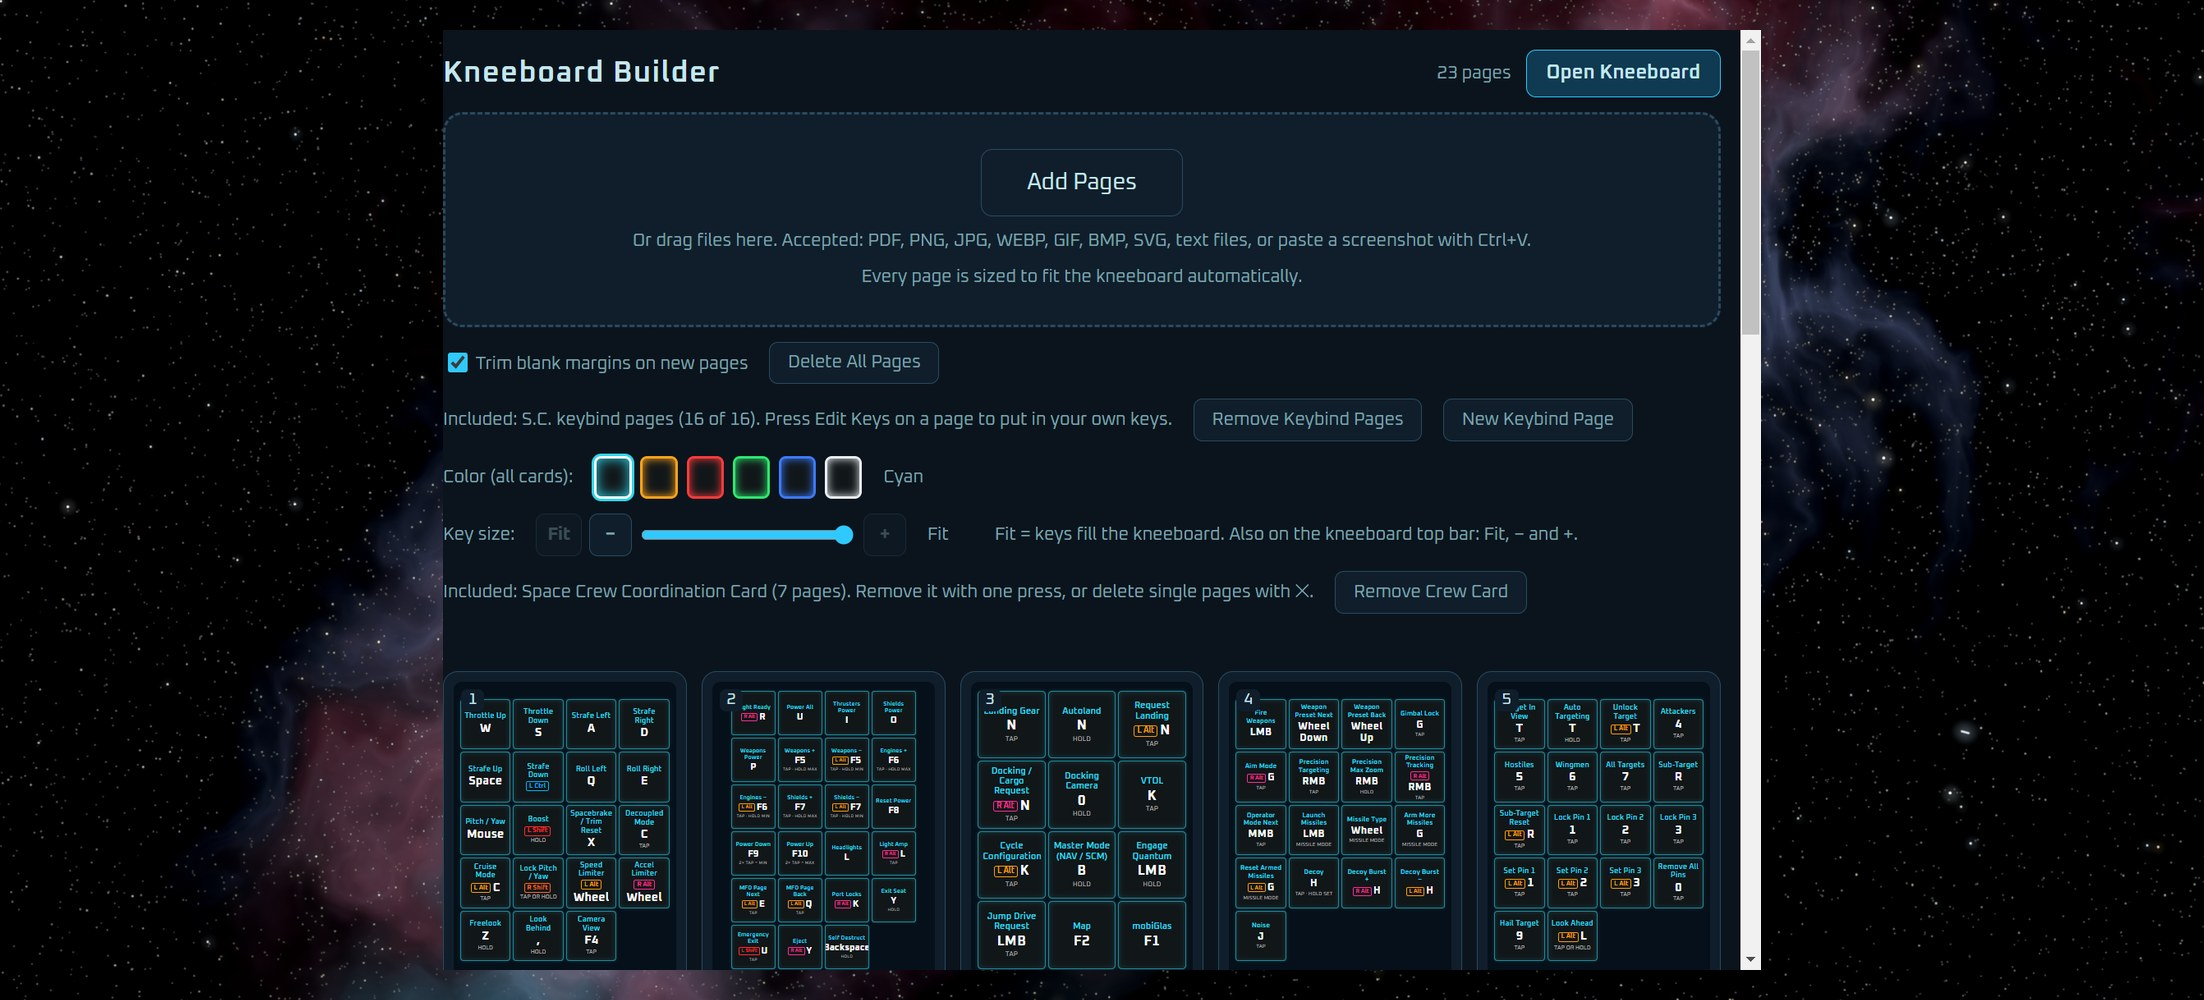
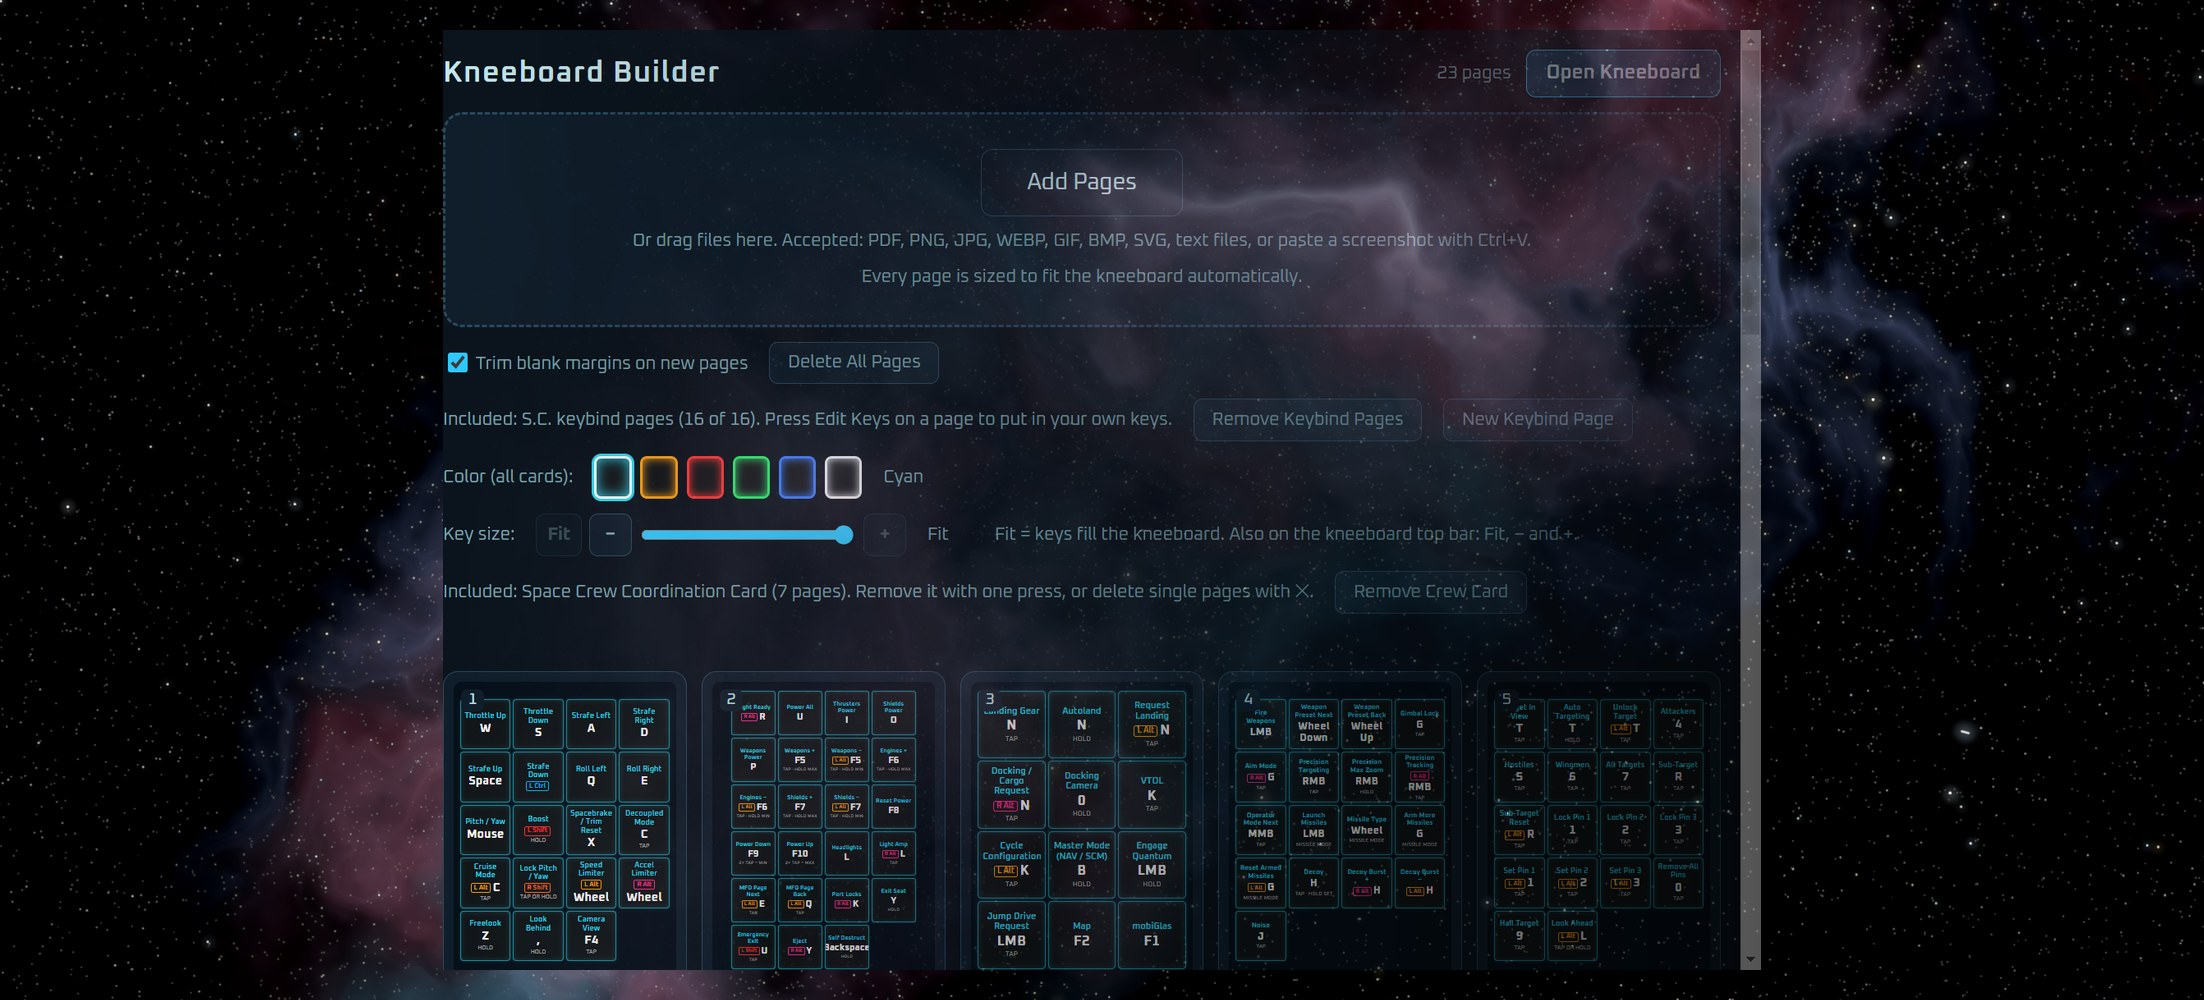
Shop: Kneeboard pictures show opacity from full to 35% across each picture (Fit page solid), labelled Opacity

diff --git a/shop/index.html b/shop/index.html
@@ -112,13 +112,13 @@
   <article class="product" id="kneeboard">
     <section class="roll kb-roll" aria-roledescription="carousel" aria-label="Kneeboard pictures">
       <div class="roll-track" tabindex="0" aria-label="Kneeboard pictures; use the arrow keys or swipe">
-        <figure class="roll-slide"><img src="img/kneeboard-roll-v2/colors-1-1102w.jpg" srcset="img/kneeboard-roll-v2/colors-1-1102w.jpg 1102w, img/kneeboard-roll-v2/colors-1-1653w.jpg 1653w, img/kneeboard-roll-v2/colors-1-2204w.jpg 2204w" sizes="(min-width: 1200px) 1102px, (min-width: 601px) calc(100vw - 98px), calc(100vw - 66px)" width="1102" height="500" alt="The Flight keybind page in Cyan, Amber and Red."><figcaption>Six colors (1 of 2)</figcaption></figure>
-        <figure class="roll-slide"><img src="img/kneeboard-roll-v2/colors-2-1102w.jpg" srcset="img/kneeboard-roll-v2/colors-2-1102w.jpg 1102w, img/kneeboard-roll-v2/colors-2-1653w.jpg 1653w, img/kneeboard-roll-v2/colors-2-2204w.jpg 2204w" sizes="(min-width: 1200px) 1102px, (min-width: 601px) calc(100vw - 98px), calc(100vw - 66px)" width="1102" height="500" loading="lazy" alt="The Flight keybind page in Green, Blue and White."><figcaption>Six colors (2 of 2)</figcaption></figure>
-        <figure class="roll-slide"><img src="img/kneeboard-roll-v2/pages-1102w.jpg" srcset="img/kneeboard-roll-v2/pages-1102w.jpg 1102w, img/kneeboard-roll-v2/pages-1653w.jpg 1653w, img/kneeboard-roll-v2/pages-2204w.jpg 2204w" sizes="(min-width: 1200px) 1102px, (min-width: 601px) calc(100vw - 98px), calc(100vw - 66px)" width="1102" height="500" loading="lazy" alt="Included keybind pages Flight, Ship Systems and Mining in Cyan."><figcaption>Included keybind pages</figcaption></figure>
-        <figure class="roll-slide"><img src="img/kneeboard-roll-v2/see-through-1102w.jpg" srcset="img/kneeboard-roll-v2/see-through-1102w.jpg 1102w, img/kneeboard-roll-v2/see-through-1653w.jpg 1653w, img/kneeboard-roll-v2/see-through-2204w.jpg 2204w" sizes="(min-width: 1200px) 1102px, (min-width: 601px) calc(100vw - 98px), calc(100vw - 66px)" width="1102" height="500" loading="lazy" alt="The same page at see-through 100, 75, 50 and 30 percent over a space picture."><figcaption>See-through levels</figcaption></figure>
-        <figure class="roll-slide"><img src="img/kneeboard-roll-v2/key-size-1102w.jpg" srcset="img/kneeboard-roll-v2/key-size-1102w.jpg 1102w, img/kneeboard-roll-v2/key-size-1653w.jpg 1653w, img/kneeboard-roll-v2/key-size-2204w.jpg 2204w" sizes="(min-width: 1200px) 1102px, (min-width: 601px) calc(100vw - 98px), calc(100vw - 66px)" width="1102" height="500" loading="lazy" alt="Keys filling the kneeboard (Fit) and the same page at 50 percent."><figcaption>Key size: Fit or smaller</figcaption></figure>
-        <figure class="roll-slide"><img src="img/kneeboard-roll-v2/builder-1102w.jpg" srcset="img/kneeboard-roll-v2/builder-1102w.jpg 1102w, img/kneeboard-roll-v2/builder-1653w.jpg 1653w, img/kneeboard-roll-v2/builder-2204w.jpg 2204w" sizes="(min-width: 1200px) 1102px, (min-width: 601px) calc(100vw - 98px), calc(100vw - 66px)" width="1102" height="500" loading="lazy" alt="The Kneeboard Builder: Add Pages, one color for all cards, key size, New Keybind Page and the included pages."><figcaption>Kneeboard Builder</figcaption></figure>
-        <figure class="roll-slide"><img src="img/kneeboard-roll-v2/crew-card-1102w.jpg" srcset="img/kneeboard-roll-v2/crew-card-1102w.jpg 1102w, img/kneeboard-roll-v2/crew-card-1653w.jpg 1653w, img/kneeboard-roll-v2/crew-card-2204w.jpg 2204w" sizes="(min-width: 1200px) 1102px, (min-width: 601px) calc(100vw - 98px), calc(100vw - 66px)" width="1102" height="500" loading="lazy" alt="Page 2 of the included Space Crew Coordination Card: calling contacts. The crew card follows the color you pick."><figcaption>Included crew card</figcaption></figure>
+        <figure class="roll-slide"><img src="img/kneeboard-roll-v2/colors-1-1102w.jpg?v=op5" srcset="img/kneeboard-roll-v2/colors-1-1102w.jpg?v=op5 1102w, img/kneeboard-roll-v2/colors-1-1653w.jpg?v=op5 1653w, img/kneeboard-roll-v2/colors-1-2204w.jpg?v=op5 2204w" sizes="(min-width: 1200px) 1102px, (min-width: 601px) calc(100vw - 98px), calc(100vw - 66px)" width="1102" height="500" alt="The Flight keybind page in Cyan, Amber and Red."><figcaption>Six colors (1 of 2)</figcaption></figure>
+        <figure class="roll-slide"><img src="img/kneeboard-roll-v2/colors-2-1102w.jpg?v=op5" srcset="img/kneeboard-roll-v2/colors-2-1102w.jpg?v=op5 1102w, img/kneeboard-roll-v2/colors-2-1653w.jpg?v=op5 1653w, img/kneeboard-roll-v2/colors-2-2204w.jpg?v=op5 2204w" sizes="(min-width: 1200px) 1102px, (min-width: 601px) calc(100vw - 98px), calc(100vw - 66px)" width="1102" height="500" loading="lazy" alt="The Flight keybind page in Green, Blue and White."><figcaption>Six colors (2 of 2)</figcaption></figure>
+        <figure class="roll-slide"><img src="img/kneeboard-roll-v2/pages-1102w.jpg?v=op5" srcset="img/kneeboard-roll-v2/pages-1102w.jpg?v=op5 1102w, img/kneeboard-roll-v2/pages-1653w.jpg?v=op5 1653w, img/kneeboard-roll-v2/pages-2204w.jpg?v=op5 2204w" sizes="(min-width: 1200px) 1102px, (min-width: 601px) calc(100vw - 98px), calc(100vw - 66px)" width="1102" height="500" loading="lazy" alt="Included keybind pages Flight, Ship Systems and Mining in Cyan."><figcaption>Included keybind pages</figcaption></figure>
+        <figure class="roll-slide"><img src="img/kneeboard-roll-v2/see-through-1102w.jpg?v=op5" srcset="img/kneeboard-roll-v2/see-through-1102w.jpg?v=op5 1102w, img/kneeboard-roll-v2/see-through-1653w.jpg?v=op5 1653w, img/kneeboard-roll-v2/see-through-2204w.jpg?v=op5 2204w" sizes="(min-width: 1200px) 1102px, (min-width: 601px) calc(100vw - 98px), calc(100vw - 66px)" width="1102" height="500" loading="lazy" alt="The same page at see-through 100, 75, 50 and 30 percent over a space picture."><figcaption>Opacity levels</figcaption></figure>
+        <figure class="roll-slide"><img src="img/kneeboard-roll-v2/key-size-1102w.jpg?v=op5" srcset="img/kneeboard-roll-v2/key-size-1102w.jpg?v=op5 1102w, img/kneeboard-roll-v2/key-size-1653w.jpg?v=op5 1653w, img/kneeboard-roll-v2/key-size-2204w.jpg?v=op5 2204w" sizes="(min-width: 1200px) 1102px, (min-width: 601px) calc(100vw - 98px), calc(100vw - 66px)" width="1102" height="500" loading="lazy" alt="Keys filling the kneeboard (Fit) and the same page at 50 percent."><figcaption>Key size: Fit or smaller</figcaption></figure>
+        <figure class="roll-slide"><img src="img/kneeboard-roll-v2/builder-1102w.jpg?v=op5" srcset="img/kneeboard-roll-v2/builder-1102w.jpg?v=op5 1102w, img/kneeboard-roll-v2/builder-1653w.jpg?v=op5 1653w, img/kneeboard-roll-v2/builder-2204w.jpg?v=op5 2204w" sizes="(min-width: 1200px) 1102px, (min-width: 601px) calc(100vw - 98px), calc(100vw - 66px)" width="1102" height="500" loading="lazy" alt="The Kneeboard Builder: Add Pages, one color for all cards, key size, New Keybind Page and the included pages."><figcaption>Kneeboard Builder</figcaption></figure>
+        <figure class="roll-slide"><img src="img/kneeboard-roll-v2/crew-card-1102w.jpg?v=op5" srcset="img/kneeboard-roll-v2/crew-card-1102w.jpg?v=op5 1102w, img/kneeboard-roll-v2/crew-card-1653w.jpg?v=op5 1653w, img/kneeboard-roll-v2/crew-card-2204w.jpg?v=op5 2204w" sizes="(min-width: 1200px) 1102px, (min-width: 601px) calc(100vw - 98px), calc(100vw - 66px)" width="1102" height="500" loading="lazy" alt="Page 2 of the included Space Crew Coordination Card: calling contacts. The crew card follows the color you pick."><figcaption>Included crew card</figcaption></figure>
       </div>
       <button class="roll-btn roll-prev" type="button" aria-label="Previous picture">&#8249;</button>
       <button class="roll-btn roll-next" type="button" aria-label="Next picture">&#8250;</button>
